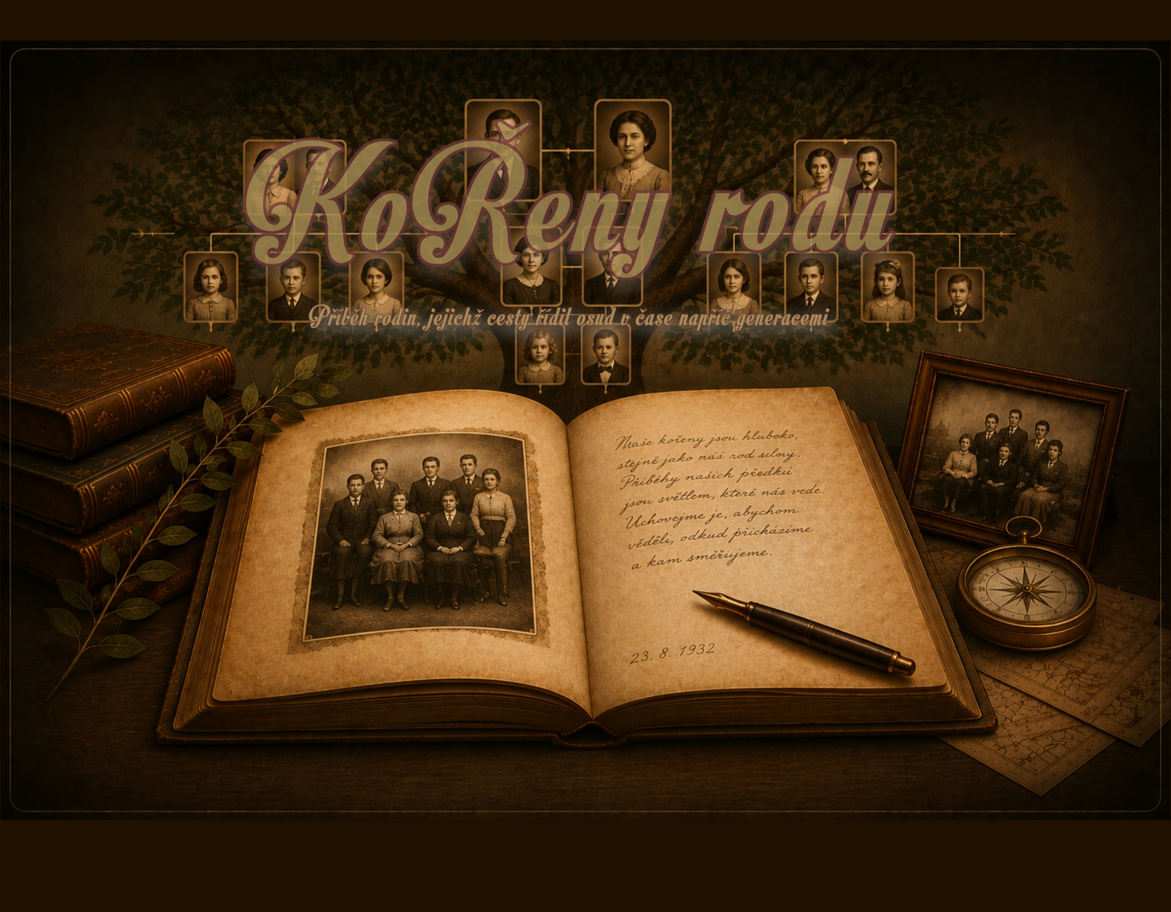
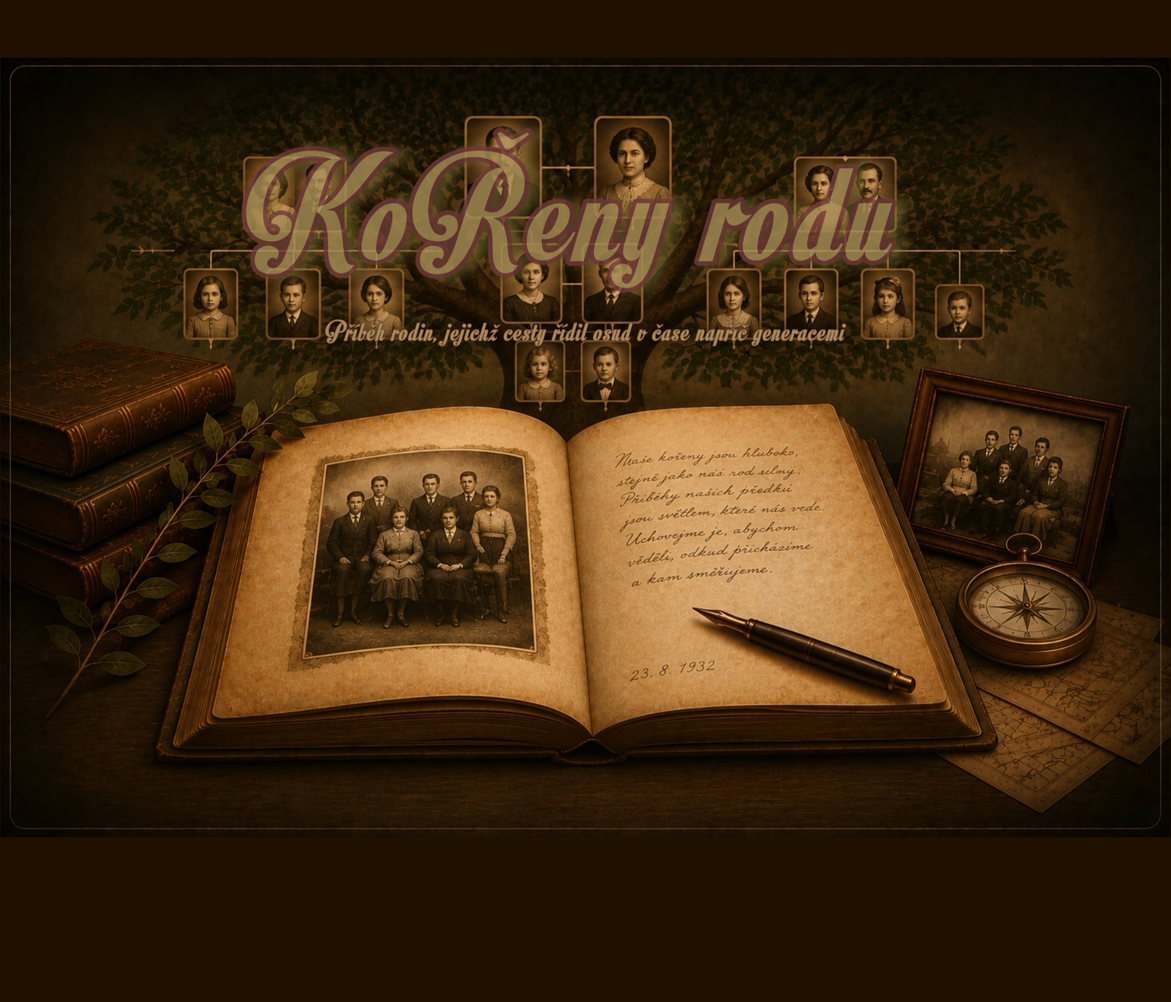
Add files via upload

diff --git a/index.html b/index.html
@@ -5,6 +5,19 @@
 <meta name="viewport" content="width=device-width, initial-scale=1.0">
 <meta name="color-scheme" content="dark">
 <title>KoŘeny rodu</title>
+<script>
+  // 3.8.2026 — motiv se musí nastavit DŘÍV než se appka vykreslí, jinak by
+  // bylo na zlomek vteřiny vidět špatné (bleskové) téma. Proto malý skript
+  // rovnou v <head>, před vlastním <style>.
+  (function(){
+    try{
+      var t = localStorage.getItem('rodokmen_tema_v1');
+      var tema = (t === 'svetly') ? 'svetly' : 'tmavy';
+      document.documentElement.setAttribute('data-tema', tema);
+      document.documentElement.style.colorScheme = (tema === 'svetly') ? 'light' : 'dark';
+    } catch(e){}
+  })();
+</script>
 <style>
   /* VYŘEŠENO fáze 7 (13.7.2026): kontrast písma zvýšen (tmavší --tmava/--akcent,
      tmavší barva let na kartě) podle zpětné vazby Myrdy ze staršího notebooku. */
@@ -25,6 +38,26 @@
     --muz:#7fa3c4; --zena:#cf8ba0;
     --bronz:#b07a42; --bronz-tmavy:#5e4023;
     --oliva:#6b6a45;        /* olivově zelená pro sekundární prvky */
+    --vstup:#352e22;        /* vnořené boxy — pole, řádky tabulky při hoveru... */
+    --tlumene:#a99a7b;      /* tlumený doplňkový text */
+    --zvyrazneni:#4a3c1c;   /* zvýrazněný (vybraný) řádek v tabulce */
+  }
+  /* ---------- SVĚTLÝ REŽIM (3.8.2026) ----------
+     Hlavička, patička, dlaždice "Strom" a plátno stromu ZŮSTÁVAJÍ vždy tmavě
+     bronzová/dřevěná — je to "rám alba", ne čtená plocha, a má vlastní pevný
+     kontrast (krémový text na tmavém dřevě), takže na motivu nezávisí.
+     Mění se jen čtené plochy: stránka, panely, tabulky, detail a info panel. */
+  :root[data-tema="svetly"]{
+    color-scheme: light;
+    --papir:#f7efdc;
+    --panel:#fffaf0;
+    --tmava:#2b2318;
+    --linka:#d9c9a3;
+    --akcent:#8a5a26;
+    --muz:#2f5878; --zena:#8a3f57;
+    --vstup:#f1e6c8;
+    --tlumene:#7a6a4a;
+    --zvyrazneni:#f0d9a0;
   }
   *{box-sizing:border-box;}
   body{
@@ -47,20 +80,20 @@
   }
   button:hover{opacity:.88;}
   button{background:linear-gradient(180deg, #c08a4d, #8a5a2f); box-shadow:0 1px 2px rgba(0,0,0,.4);}
-  button.sec{background:#3b3428; color:var(--tmava); box-shadow:none; border:1px solid var(--linka);}
+  button.sec{background:var(--vstup); color:var(--tmava); box-shadow:none; border:1px solid var(--linka);}
   button.btn-rozbalit{background:#2f6249; color:#fff;}
   button.btn-sbalit{background:#8a441f; color:#fff;}
   button.btn-smazat{background:#a33; color:#fff;}
   table{width:100%; border-collapse:collapse; font-size:13px;}
-  th,td{text-align:left; padding:5px 8px; border-bottom:1px solid #3a3327;}
+  th,td{text-align:left; padding:5px 8px; border-bottom:1px solid var(--linka);}
   th{color:var(--akcent); font-weight:normal; border-bottom:2px solid var(--linka);}
-  tr:hover{background:#352e22;}
+  tr:hover{background:var(--vstup);}
   .zena-rad{border-left:3px solid var(--zena);}
   .muz-rad{border-left:3px solid var(--muz);}
-  .zemrel{color:#9a8f7c;}
+  .zemrel{color:var(--tlumene);}
   .pill{
     display:inline-block; font-size:11px; padding:1px 7px; border-radius:10px;
-    background:#3b3428; color:var(--akcent); margin-left:6px;
+    background:var(--vstup); color:var(--akcent); margin-left:6px;
   }
   .pill.varovani{background:#4a2828; color:#e8a0a0;}
   .pill.ok{background:#28402e; color:#8fce9f;}
@@ -70,7 +103,7 @@
     display:none;
   }
   .kontrola-radek{padding:4px 0; font-size:13px;}
-  .generace-nadpis{background:#38311f; font-weight:bold;}
+  .generace-nadpis{background:var(--vstup); font-weight:bold;}
 
   /* ---------- HLAVIČKA (fáze 7) ---------- */
   header.hlavicka{
@@ -90,6 +123,7 @@
     padding:10px 18px; border-radius:8px; border:2px solid rgba(255,255,255,.25);
   }
   #btnUlozitHeader.stav-ulozeno{ background:#245c3f; }
+  #btnTema{ background:rgba(255,255,255,.12); color:#fbead2; border:1px solid rgba(255,255,255,.25); }
 
   /* ---------- DLAŽDICE STROM — bronzový rám + papírová textura uvnitř ---------- */
   .panel-strom{
@@ -123,7 +157,7 @@
     background:#332c21; border:1px solid #55482f; border-radius:6px;
     padding:10px 14px; font-size:13px; margin-top:12px;
   }
-  tr.zvyrazneno-radek{ background:#4a3c1c !important; }
+  tr.zvyrazneno-radek{ background:var(--zvyrazneni) !important; }
   .karta-obdelnik.zvyrazneno{ stroke:#c9781a; stroke-width:3.5; }
   .toggle-ikona{ cursor:pointer; user-select:none; }
   .toggle-ikona circle{ fill:#8a441f; stroke:#8a441f; stroke-width:1.5; }
@@ -145,7 +179,7 @@
 
   /* ---------- PATIČKA ---------- */
   footer.paticka{
-    text-align:center; font-size:12px; color:#8a7c62;
+    text-align:center; font-size:12px; color:var(--tlumene);
     padding:18px 0 6px; margin-top:6px;
   }
 
@@ -157,7 +191,7 @@
   #detailOverlay.otevreno{ display:block; }
   #detailPanel{
     position:fixed; top:0; right:0; width:380px; max-width:92vw; height:100vh;
-    background:#2c261d; border-left:1px solid var(--linka);
+    background:var(--panel); border-left:1px solid var(--linka);
     box-shadow:-6px 0 24px rgba(0,0,0,.5);
     transform:translateX(100%); transition:transform .22s ease;
     z-index:50; overflow-y:auto; padding:20px;
@@ -166,13 +200,13 @@
   #detailPanel label{ display:block; font-size:12px; color:var(--akcent); margin-top:10px; margin-bottom:3px; }
   #detailPanel input, #detailPanel select, #detailPanel textarea{
     width:100%; padding:7px 9px; border:1px solid var(--linka); border-radius:6px;
-    font-family:inherit; font-size:13px; background:#3b3428; color:var(--tmava);
+    font-family:inherit; font-size:13px; background:var(--vstup); color:var(--tmava);
   }
   #detailPanel h2{ font-size:18px; margin:0; }
   #detailPanel h3{ font-size:13px; color:var(--akcent); margin:0 0 8px 0; }
-  .svazek-box{ margin-bottom:8px; padding:8px 10px; background:#352e22; border-radius:6px; font-size:13px; }
-  .pridat-box{ margin-top:10px; padding:10px; background:#38301f; border-radius:6px; }
-  .priloha-radek{ display:flex; gap:10px; align-items:flex-start; padding:8px; background:#352e22; border-radius:8px; margin-bottom:8px; }
+  .svazek-box{ margin-bottom:8px; padding:8px 10px; background:var(--vstup); border-radius:6px; font-size:13px; }
+  .pridat-box{ margin-top:10px; padding:10px; background:var(--vstup); border-radius:6px; }
+  .priloha-radek{ display:flex; gap:10px; align-items:flex-start; padding:8px; background:var(--vstup); border-radius:8px; margin-bottom:8px; }
   #lightbox{
     position:fixed; inset:0; z-index:200; background:rgba(20,16,12,.88);
     display:none; align-items:center; justify-content:center; cursor:zoom-out;
@@ -214,10 +248,10 @@
     flex:1 1 48%; background:var(--papir); overflow-y:auto;
     padding:5vh 5vw; display:flex; flex-direction:column; justify-content:center;
   }
-  .uvitani-motto-male{ font-style:italic; font-size:12px; color:#a99a7b; margin-bottom:6px; }
+  .uvitani-motto-male{ font-style:italic; font-size:12px; color:var(--tlumene); margin-bottom:6px; }
   .uvitani-pozdrav{ font-family:"Palatino Linotype","Book Antiqua",Georgia,serif; font-size:26px; color:var(--akcent); margin:0; }
-  .uvitani-cas{ font-size:12px; color:#a99a7b; margin:4px 0 20px; }
-  .uvitani-nadpis-obsah{ font-size:11px; letter-spacing:.14em; color:#a99a7b; margin-bottom:8px; }
+  .uvitani-cas{ font-size:12px; color:var(--tlumene); margin:4px 0 20px; }
+  .uvitani-nadpis-obsah{ font-size:11px; letter-spacing:.14em; color:var(--tlumene); margin-bottom:8px; }
   .uvitani-staty{ display:grid; grid-template-columns:repeat(4,1fr); gap:8px; margin-bottom:22px; }
   .uvitani-stat{ background:var(--panel); border:1px solid var(--linka); border-radius:8px; padding:10px 6px; text-align:center; }
   .uvitani-stat b{ display:block; font-size:20px; color:var(--tmava); }
@@ -245,7 +279,7 @@
   #infoOverlay.otevreno{ display:block; }
   #infoPanel{
     position:fixed; top:0; right:0; width:420px; max-width:92vw; height:100vh;
-    background:#2c261d; border-left:1px solid var(--linka);
+    background:var(--panel); border-left:1px solid var(--linka);
     box-shadow:-6px 0 24px rgba(0,0,0,.5);
     transform:translateX(100%); transition:transform .22s ease;
     z-index:60; overflow-y:auto; padding:20px;
@@ -277,6 +311,8 @@
   <symbol id="i-undo" viewBox="0 0 24 24"><path d="M7 7 3 11l4 4"/><path d="M3 11h11a6 6 0 0 1 0 12h-2"/></symbol>
   <symbol id="i-redo" viewBox="0 0 24 24"><path d="M17 7l4 4-4 4"/><path d="M21 11H10a6 6 0 0 0 0 12h2"/></symbol>
   <symbol id="i-download" viewBox="0 0 24 24"><path d="M12 4v11"/><path d="M8 11l4 4 4-4"/><path d="M4 19h16"/></symbol>
+  <symbol id="i-sun" viewBox="0 0 24 24"><circle cx="12" cy="12" r="4.3"/><path d="M12 2.5v3M12 18.5v3M4.2 4.2l2.1 2.1M17.7 17.7l2.1 2.1M2.5 12h3M18.5 12h3M4.2 19.8l2.1-2.1M17.7 6.3l2.1-2.1"/></symbol>
+  <symbol id="i-moon" viewBox="0 0 24 24"><path d="M20 14.5A8.5 8.5 0 1 1 9.5 4 6.8 6.8 0 0 0 20 14.5z"/></symbol>
 </svg>
 
 <div id="uvitani" class="skryto">
@@ -326,7 +362,10 @@
     <div class="podtitulek-app">Genealogie rodiny · přehled předků a potomků</div>
     <div class="motto-app">Strom roste z kořenů, člověk ze svých předků</div>
   </div>
-  <button id="btnUlozitHeader" onclick="ulozitSoubor(false)">Uložit 🔴</button>
+  <div style="display:flex; align-items:center; gap:8px;">
+    <button id="btnTema" class="sec" onclick="prepniTema()" style="padding:8px 12px;"></button>
+    <button id="btnUlozitHeader" onclick="ulozitSoubor(false)">Uložit 🔴</button>
+  </div>
 </header>
 
 <div class="panel-strom">
@@ -735,6 +774,33 @@ let panInicializovan = false;
 // textura vpravo od skutečného obsahu. Teď se šířka dopočítává ze skutečné
 // šířky kontejneru při každém překreslení, výška zůstává 560 (viz vykresliStrom).
 let sirkaPlatna = 1000, vyskaPlatna = 560;
+
+/* ---------- SVĚTLÝ/TMAVÝ REŽIM (3.8.2026) ----------
+   Motiv se nastavuje atributem data-tema na <html> (CSS to čte v :root[data-tema="svetly"]).
+   Prvotní nastavení běží ještě dřív, v malém skriptu v <head> (viz komentář tam) —
+   tahle část jen drží tlačítko/ikonu synchronizované a řeší přepnutí za běhu.
+   KRITICKÝ BOD (viz předávací protokol, Android/Opera bug): color-scheme se musí
+   nastavovat DYNAMICKY spolu s motivem, jinak by si Opera na Androidu mohla
+   světlý obsah násilně přebarvit — přesně bug, který dřív řešil color-scheme:dark
+   natvrdo. Proto se tu mění na dvou místech zároveň (inline style i <meta>). */
+const TEMA_KLIC = 'rodokmen_tema_v1';
+function nastavTema(tema){
+  document.documentElement.setAttribute('data-tema', tema);
+  document.documentElement.style.colorScheme = (tema === 'svetly') ? 'light' : 'dark';
+  const metaCS = document.querySelector('meta[name="color-scheme"]');
+  if(metaCS) metaCS.setAttribute('content', tema === 'svetly' ? 'light' : 'dark');
+  try{ localStorage.setItem(TEMA_KLIC, tema); } catch(e){}
+  const btn = document.getElementById('btnTema');
+  if(btn){
+    btn.innerHTML = tema === 'svetly'
+      ? '<svg class="i" viewBox="0 0 24 24"><use href="#i-moon"/></svg> Tmavý režim'
+      : '<svg class="i" viewBox="0 0 24 24"><use href="#i-sun"/></svg> Světlý režim';
+  }
+}
+function prepniTema(){
+  const aktualni = document.documentElement.getAttribute('data-tema') === 'svetly' ? 'svetly' : 'tmavy';
+  nastavTema(aktualni === 'tmavy' ? 'svetly' : 'tmavy');
+}
 let posledniKarty = [];
 let posledniBBox = null;
 
@@ -1541,7 +1607,7 @@ function otevriCasovouOsu(){
     });
     html += `</div><div style="display:flex; gap:2px; margin-top:6px;">`;
     dekady.forEach(d => {
-      html += `<div style="flex:1; text-align:center; font-size:10px; color:#a99a7b; white-space:nowrap;">${d.od}–${d.do_}</div>`;
+      html += `<div style="flex:1; text-align:center; font-size:10px; color:var(--tlumene); white-space:nowrap;">${d.od}–${d.do_}</div>`;
     });
     html += `</div></div></div>`;
   }
@@ -1829,7 +1895,7 @@ function vykresliPrilohy(id){
     const jeObr = (p.mime||'').startsWith('image/');
     const nahled = jeObr
       ? `<img src="${p.data}" onclick="otevriLightbox('${id}','${p.id}')" style="width:62px; height:62px; object-fit:cover; border-radius:6px; cursor:zoom-in; flex:none;">`
-      : `<div onclick="stahnoutPrilohu('${id}','${p.id}')" style="width:62px; height:62px; flex:none; display:flex; align-items:center; justify-content:center; font-size:28px; background:#3b3428; border-radius:6px; cursor:pointer;">${(p.mime||'').includes('pdf')?'📕':'📄'}</div>`;
+      : `<div onclick="stahnoutPrilohu('${id}','${p.id}')" style="width:62px; height:62px; flex:none; display:flex; align-items:center; justify-content:center; font-size:28px; background:var(--vstup); border-radius:6px; cursor:pointer;">${(p.mime||'').includes('pdf')?'📕':'📄'}</div>`;
     html += `<div class="priloha-radek">
       ${nahled}
       <div style="flex:1; min-width:0;">
@@ -2202,6 +2268,8 @@ function zvyrazniZeStromu(id){
 
 vykresliStrom(data);
 oznacUlozeno();
+// Synchronizace tlacitka/ikony s motivem, ktery uz nastavil FOUC-safe skript v <head>.
+nastavTema(document.documentElement.getAttribute('data-tema') === 'svetly' ? 'svetly' : 'tmavy');
 zkontrolujObnovuPriStartu();
 
 /* ---------- pan (tažení myší) a zoom (kolečko) ---------- */
